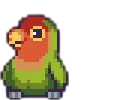
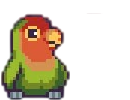
medium level working

Changed region(s): [[0.0, 0.12, 0.5538, 1.0]]

diff --git a/src/modes.py b/src/modes.py
@@ -16,7 +16,7 @@ BIRD_IMAGES = [
 
 BRANCH_IMAGE = pygame.image.load("../assets/branch.png")
 BIRD_IMAGES = [pygame.transform.scale(img, (100, 100)) for img in BIRD_IMAGES]
-BRANCH_IMAGE = pygame.transform.scale(BRANCH_IMAGE, (500, 500))
+BRANCH_IMAGE = pygame.transform.scale(BRANCH_IMAGE, (400, 150))
 
 def easy_mode():
     birds = [Bird(i, BIRD_IMAGES[i]) for i in range(7)]
@@ -46,13 +46,13 @@ def medium_mode():
     birds7 = deque([birds[4], birds[4],birds[5], birds[2]])
     birds8 = deque([])
 
-    branch1 = Branch(200, 200, birds1, BRANCH_IMAGE, side="left")
-    branch2 = Branch(200, 400, birds2, BRANCH_IMAGE, side="left")
-    branch3 = Branch(200, 600, birds3, BRANCH_IMAGE, side="left")
-    branch4 = Branch(200, 800, birds4, BRANCH_IMAGE, side="left")
-    branch5 = Branch(900, 200, birds5, BRANCH_IMAGE, side="right")
-    branch6 = Branch(900, 400, birds6, BRANCH_IMAGE, side="right")
-    branch7 = Branch(900, 600, birds7, BRANCH_IMAGE, side="right")
-    branch8 = Branch(900, 800, birds8, BRANCH_IMAGE, side="right")
+    branch1 = Branch(200, 100, birds1, BRANCH_IMAGE, side="left")
+    branch2 = Branch(200, 300, birds2, BRANCH_IMAGE, side="left")
+    branch3 = Branch(200, 500, birds3, BRANCH_IMAGE, side="left")
+    branch4 = Branch(200, 700, birds4, BRANCH_IMAGE, side="left")
+    branch5 = Branch(900, 100, birds5, BRANCH_IMAGE, side="right")
+    branch6 = Branch(900, 300, birds6, BRANCH_IMAGE, side="right")
+    branch7 = Branch(900, 500, birds7, BRANCH_IMAGE, side="right")
+    branch8 = Branch(900, 700, birds8, BRANCH_IMAGE, side="right")
     return [branch1, branch2, branch3, branch4, branch5, branch6, branch7, branch8]
 

diff --git a/src/main.py b/src/main.py
@@ -33,7 +33,7 @@ else:
 
 initial_state = GameState(branches)
 
-search_algorithm = "dfs"
+search_algorithm = "dfss"
 solution_node = None
 
 if search_algorithm == "bfs":
@@ -113,12 +113,12 @@ def draw_game(branches):
         # Draw birds on top of branches
         for i, bird in enumerate(branch.birds):
             branch_width = branch.image.get_width()
-            bird_x = branch.x - (branch_width // 2) + 150 + (i * 100) if branch.side == "left" else branch.x + (branch_width // 2) - 150 - (i * 100)
+            bird_x = branch.x - (branch_width // 2) + 65 + (i * 100) if branch.side == "left" else branch.x + (branch_width // 2) - 65 - (i * 100)
             bird_img = bird.image if branch.side == "left" else pygame.transform.flip(bird.image, True, False)
-            bird_rect = bird.image.get_rect(midbottom=(bird_x, branch.y))
+            bird_rect = bird.image.get_rect(midbottom=(bird_x, branch.y + 35))
             screen.blit(bird_img, bird_rect)
-        #for branch in branches:
-          #      pygame.draw.rect(screen, (255, 0, 0), branch.rect, 2)
+        for branch in branches:
+               pygame.draw.rect(screen, (255, 0, 0), branch.rect, 2)
     pygame.display.flip()  # Update display
 
 # Game Loop
